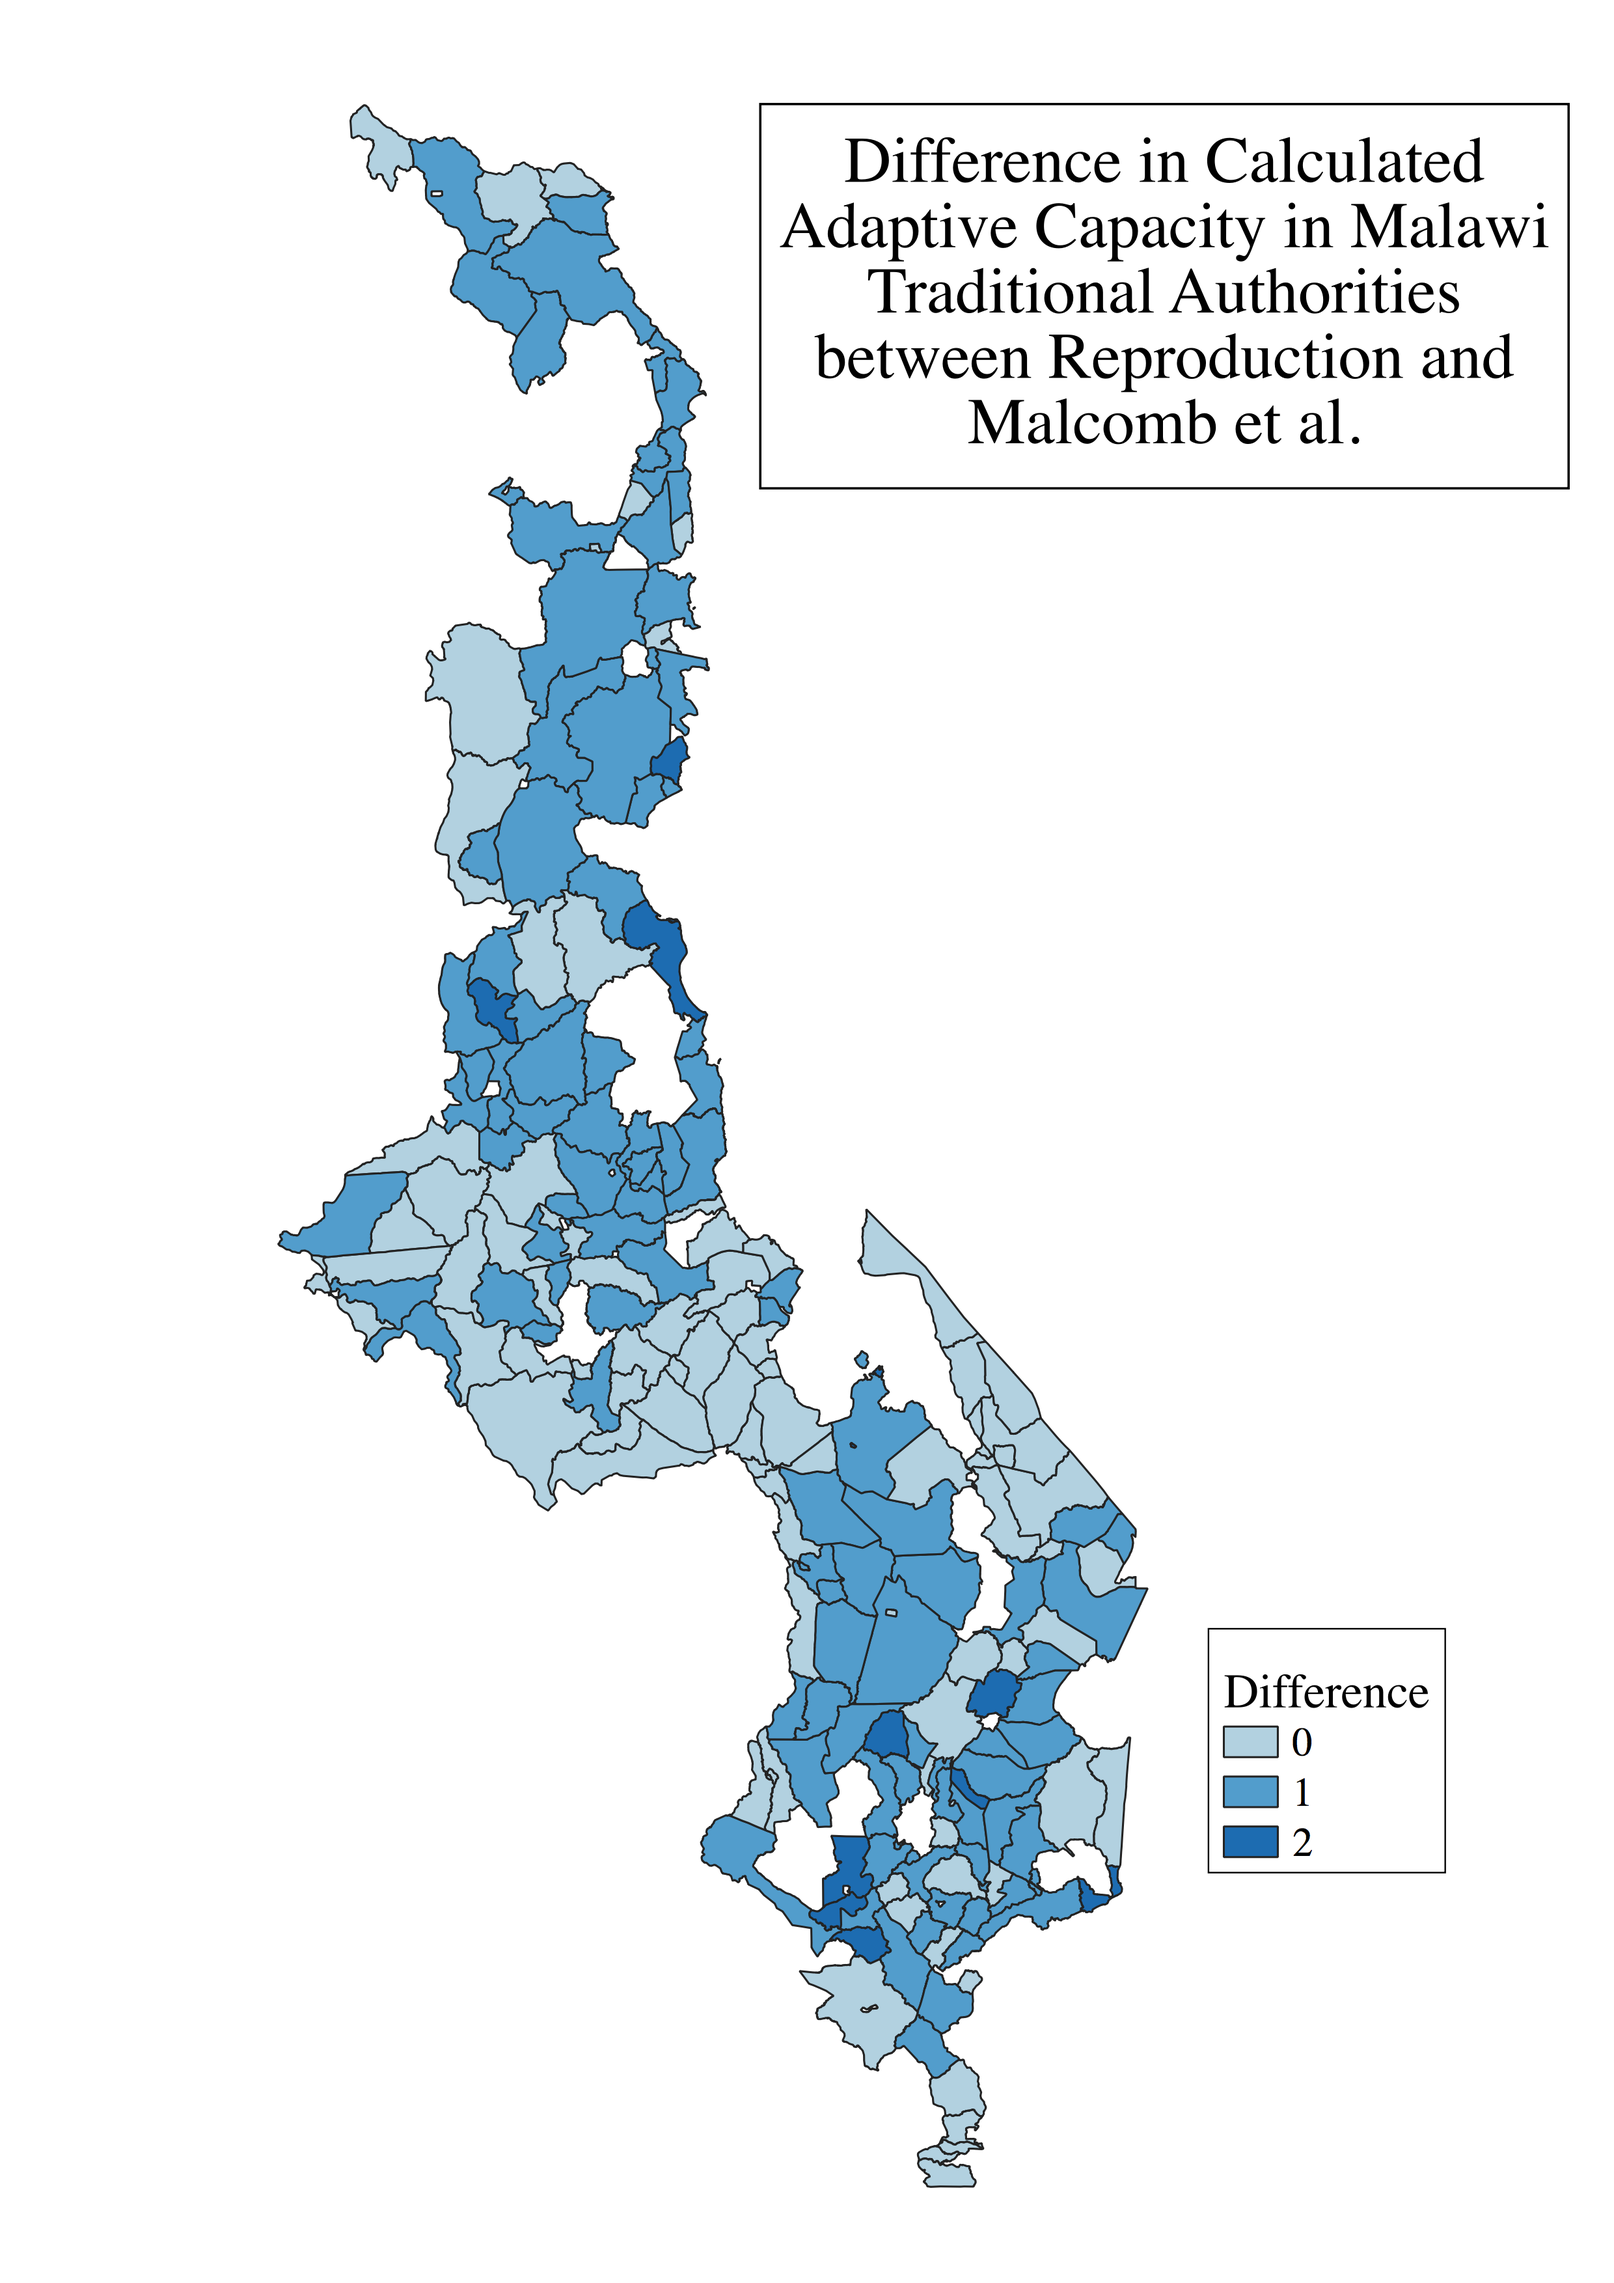
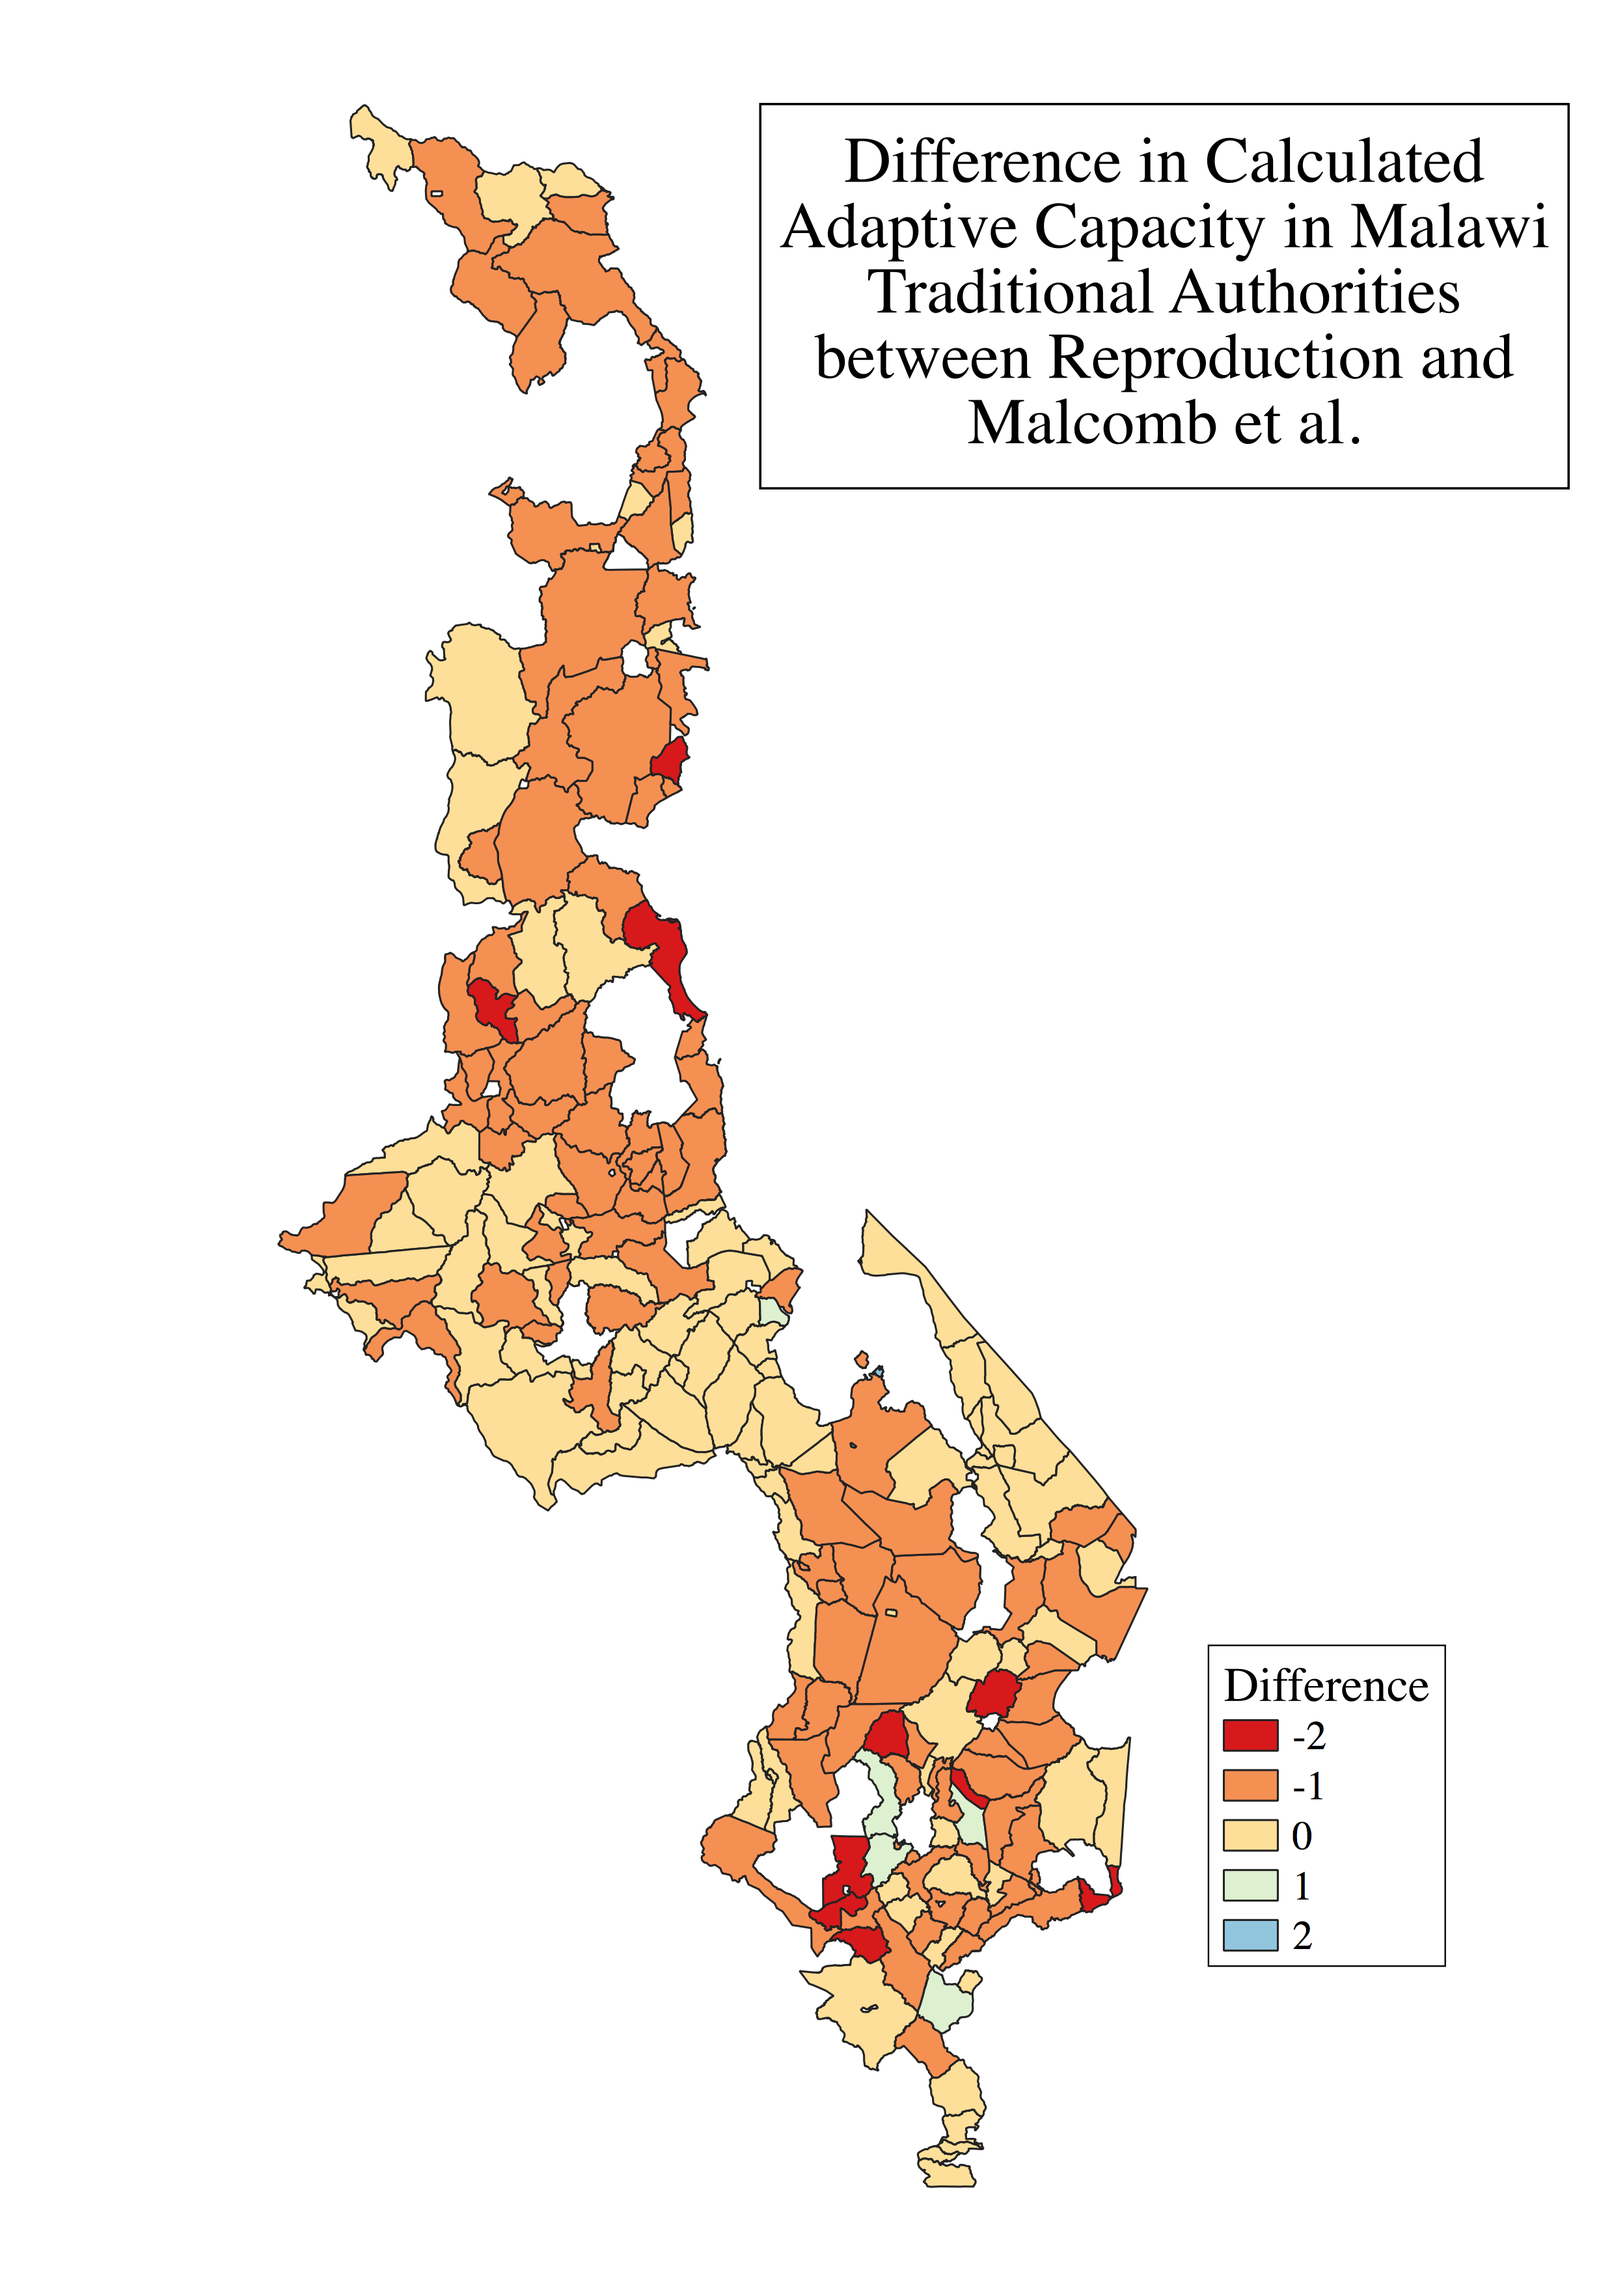
fixed tables and malcomb ac map

Changed region(s): [[0.1863, 0.1554, 0.7141, 0.9635], [0.2173, 0.0311, 0.4036, 0.1865], [0.7452, 0.7149, 0.9004, 0.8703]]

diff --git a/RP-Malcomb/docs/report/RP-Malcomb-Report.md b/RP-Malcomb/docs/report/RP-Malcomb-Report.md
@@ -3,9 +3,7 @@ layout: page
 title: RP- Vulnerability modeling for sub-Saharan Africa
 ---
 
-
-**Reproduction of**
-# Vulnerability modeling for sub-Saharan Africa
+# Reproduction of Vulnerability modeling for sub-Saharan Africa
 
 Original study *by* Malcomb, D. W., E. A. Weaver, and A. R. Krakowka. 2014. Vulnerability modeling for sub-Saharan Africa: An operationalized approach in Malawi. *Applied Geography* 48:17–30. DOI:[10.1016/j.apgeog.2014.01.004](https://doi.org/10.1016/j.apgeog.2014.01.004)
 
@@ -129,6 +127,9 @@ Data Input: UNEP/grid Europe, Famine early warning network → ***Raster*** → 
 18. Reclassify drought raster into quantiles
 19. Add all RASTERs together to calculate final output:  final = (40 - geo) * 0.40 + drought * 0.20 + flood * 0.20 + lhz_sensitivity * 0.20
 20. Use zonal statistics to aggregate raster to TA geometry for final calculation of vulnerability in each traditional authority
+21. Analyze difference between original study and the reproduction
+  * Compare fig 4 from Malcomb et al. to our adaptive capacity results (discrete chloropleth maps) through Spearman's Rho correlation test
+  * Compare fig 5 from Malcomb et al. to our vulnerability results (continuous rasters) through Spearman's Rho correlation test 
 
 ## Reproduction Results
 
@@ -137,23 +138,26 @@ Data Input: UNEP/grid Europe, Famine early warning network → ***Raster*** → 
 
 **Figure 2: Difference in Reproduction and Original Study for Adaptive Capacity**
 ![Adaptive Capacity Difference](figures/ACDiff.png)
+Figure 2 represents the difference between digitized results from Malcomb et al., and our reproduction.
 
 **Figure 3: Confusion Matrix for Adaptive Capacity**
 ![Confusion Matrix](figures/confusionMatrix.png)
 
-The difference between the reproduction of adaptive capacity by traditional authority, and that of the original study was calculated using Spearman's Rho. Spearman's Rho calculates the correlation of ranked data with the assumption that there is no correlation (the null hypothesis). A value of 0 means no correlation, -1 designates an inverse correlation, and 1 designates a positive correlation. The Spearman's Rho for the comparison between our adaptive capacity map and Malcomb's resilience map was 0.7795965, indicating a somewhat strong positive correlation.
+The difference between the reproduction of adaptive capacity by traditional authority, and that of the original study (Figure 2) was calculated using Spearman's Rho. Spearman's Rho calculates the correlation of ranked data with the assumption that there is no correlation (the null hypothesis). A value of 0 means no correlation, -1 designates an inverse correlation, and 1 designates a positive correlation. The Spearman's Rho for the comparison between our adaptive capacity map and Malcomb's resilience map was 0.7795965, indicating a somewhat strong positive correlation.
 
 **Figure 4: Map of Vulnerability in Malawi**
 ![Map of Vulnerability in Malawi](figures/vulnerability.png)
+Figure 4 is a result of our reproduction calculating vulnerability in Malawi.
 
-A scatterplot comparing raster values between the reproduction and original study vulnerability maps similar indicates a weak correlation.
+A scatterplot comparing raster values between the reproduction and original study vulnerability maps similarly indicates a weak correlation.
 ![Scatterplot](figures/fig5DiffScatterplot.png)
 
 
 **Figure 5: Difference in Reproduction and Original Study for Vulnerability**
 ![Vulnerability Difference](figures/VulDiff.png)
+Figure 5 represents the difference between digitized results from Malcomb et al., and our reproduction.
 
-The difference between our reproduction of vulnerability in Malawi and that of the original study was similarly calculated using Spearman's Rho. The Spearman's Rho for this comparison was 0.271046, indicating a weak positive correlation between our vulnerability map and Malcomb's.
+The difference between our reproduction of vulnerability in Malawi and that of the original study was similarly calculated using Spearman's Rho (Figure 5). The Spearman's Rho for this comparison was 0.271046, indicating a weak positive correlation between our vulnerability map and Malcomb's.
 
 Overall, the adaptive capacity map was supported by the reproduction, but the vulnerability map was not supported by the reproduction.
 
@@ -173,7 +177,7 @@ The lack of detail in Malcomb et al. on how livelihood sensitivity was calculate
 
 As no code was published in Malcomb et al., the entire workflow is uncertain as there is no clarification in how data was scaled, weighted and at what level any kind of aggregation or calculations occurred. Making the code available for their statistical analysis would go a long way in clarifying decisions that did not seem important to include in a methods section, but become incredibly relevant when trying to produce a successful reproduction.
 
-Our reproduction also sheds light on larger debates in the field of geography on issues of error and uncertainty. Longley (2008) introduces a model for thinking about error and uncertainty in spatial research where error and uncertainty is introduced at each step of spatial analysis. This process is represented in a timeline where error and uncertainty is introduced at every step: real world --> conception --> measurement & representation --> analysis --> interpretation and validation. Every step takes us further and further away from an accurate representation of the real world. The problem with Malcomb et al. is that we do not even know the details of how they went from their data sources to their meta-themes of measuring vulnerability, to how they analyzed data to fit their categories of resilience. We know there is uncertainty inherent in this process, but the lack of detail on their process of spatial analysis means we cannot estimate or discuss what kind of uncertainty was introduced, or how it was introduced. Tate (2013) also provides a helpful framework in thinking about vulnerability model and uncertainty. Tate (2013) outlines decisions in each phase of modeling that could introduce uncertainty in models. However, there are several points in decision making for a model that are completely ignored by Malcomb et al. There is no decision made on how to measure error, and there is also no phase of the model where Malcomb et al. conduct an uncertainty or sensitivity analysis, or validate their findings in any way. There is thus no way for us to estimate how much uncertainty was introduced by Malcomb et al. in their decision. We have no idea how much their choices mattered for the final result.
+Our reproduction also sheds light on larger debates in the field of geography on issues of error and uncertainty. Longley (2008) introduces a model for thinking about error and uncertainty in spatial research where error and uncertainty is introduced at each step of spatial analysis. This process is represented in a timeline where error and uncertainty is introduced at every step: real world --> conception --> measurement & representation --> analysis --> interpretation and validation. Every step takes us further and further away from an accurate representation of the real world. The problem with Malcomb et al. is that we do not even know the details of how they went from their data sources to their meta-themes of measuring vulnerability, to how they analyzed data to fit their categories of resilience. We know there is uncertainty inherent in this process, but the lack of detail on their process of spatial analysis means we cannot estimate or discuss what kind of uncertainty was introduced, or how it was introduced. Tate (2013) also provides a helpful framework in thinking about vulnerability model and uncertainty. Tate (2013) outlines decisions in each phase of modeling that could introduce uncertainty in models. However, there are several points in decision making for a model that are completely ignored by Malcomb et al. There is no decision made on how to measure error, and there is also no phase of the model where Malcomb et al. conduct an uncertainty or sensitivity analysis, or validate their findings in any way. There is thus no way for us to estimate how much uncertainty was introduced by Malcomb et al. in their decision. We have no idea how much their choices mattered for the final result. However, now that we have created a complete R script for their analysis, we now have the capacity to test sensitivity in their model in the future.
 
 ## Conclusion
 

diff --git a/index.md b/index.md
@@ -66,5 +66,6 @@ Computer Programs:
 - [Analysis of Resilience of Schools to Flooding in Dar es Salaam](DarEsSalaamResilienceAcademy/report.md)
 - [Reproduction of Vulnerability Modeling for Sub-Saharan Africa](RP-Malcomb/docs/report/RP-Malcomb-Report.md)
 - [Spatial-temporal and content analysis of Twitter Data](RE-Dorian/docs/RE-Dorian-Report.md)
+- [Replication of Rapidly measuring spatial accessibility of COVID-19 healthcare resources](RP-Kang/report.md)
 
 ## [Musings](/musings)

diff --git a/RP-Kang/report.md b/RP-Kang/report.md
@@ -4,7 +4,7 @@ title: RP - Rapidly measuring spatial accessibility of COVID-19 healthcare resou
 ---
 
 
-**Reproduction of**
+**Replication of**
 # Rapidly measuring spatial accessibility of COVID-19 healthcare resources: a case study of Illinois, USA.
 
 Original study *by* Kang, J. Y., A. Michels, F. Lyu, Shaohua Wang, N. Agbodo, V. L. Freeman, and Shaowen Wang. 2020. Rapidly measuring spatial accessibility of COVID-19 healthcare resources: a case study of Illinois, USA.
